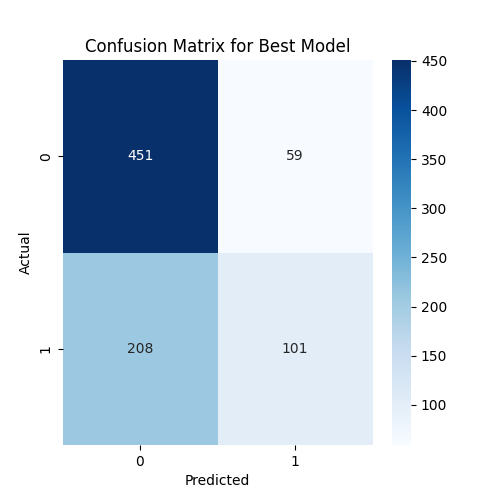
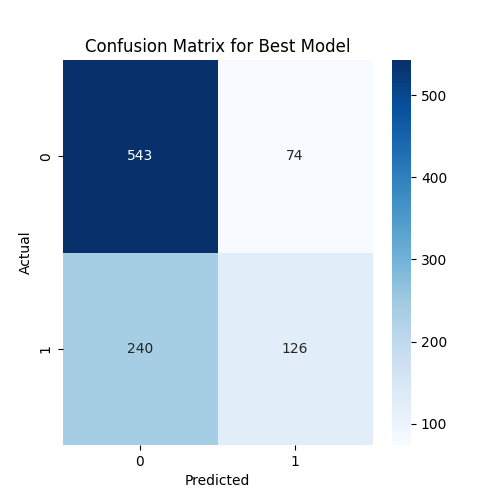
MLOps-V4

diff --git a/src/model/model_eval.py b/src/model/model_eval.py
@@ -18,7 +18,7 @@ from mlflow.models import infer_signature
 dagshub.init(repo_owner='sandeepnjois-affine', repo_name='MLOps-DVC-MLFlow', mlflow=True)
 
 # Set the experiment name in MLflow
-exp_name = 'DVC PIPELINE'
+exp_name = 'MLOps'
 run_name = 'V4'
 mlflow.set_experiment(exp_name)
 
